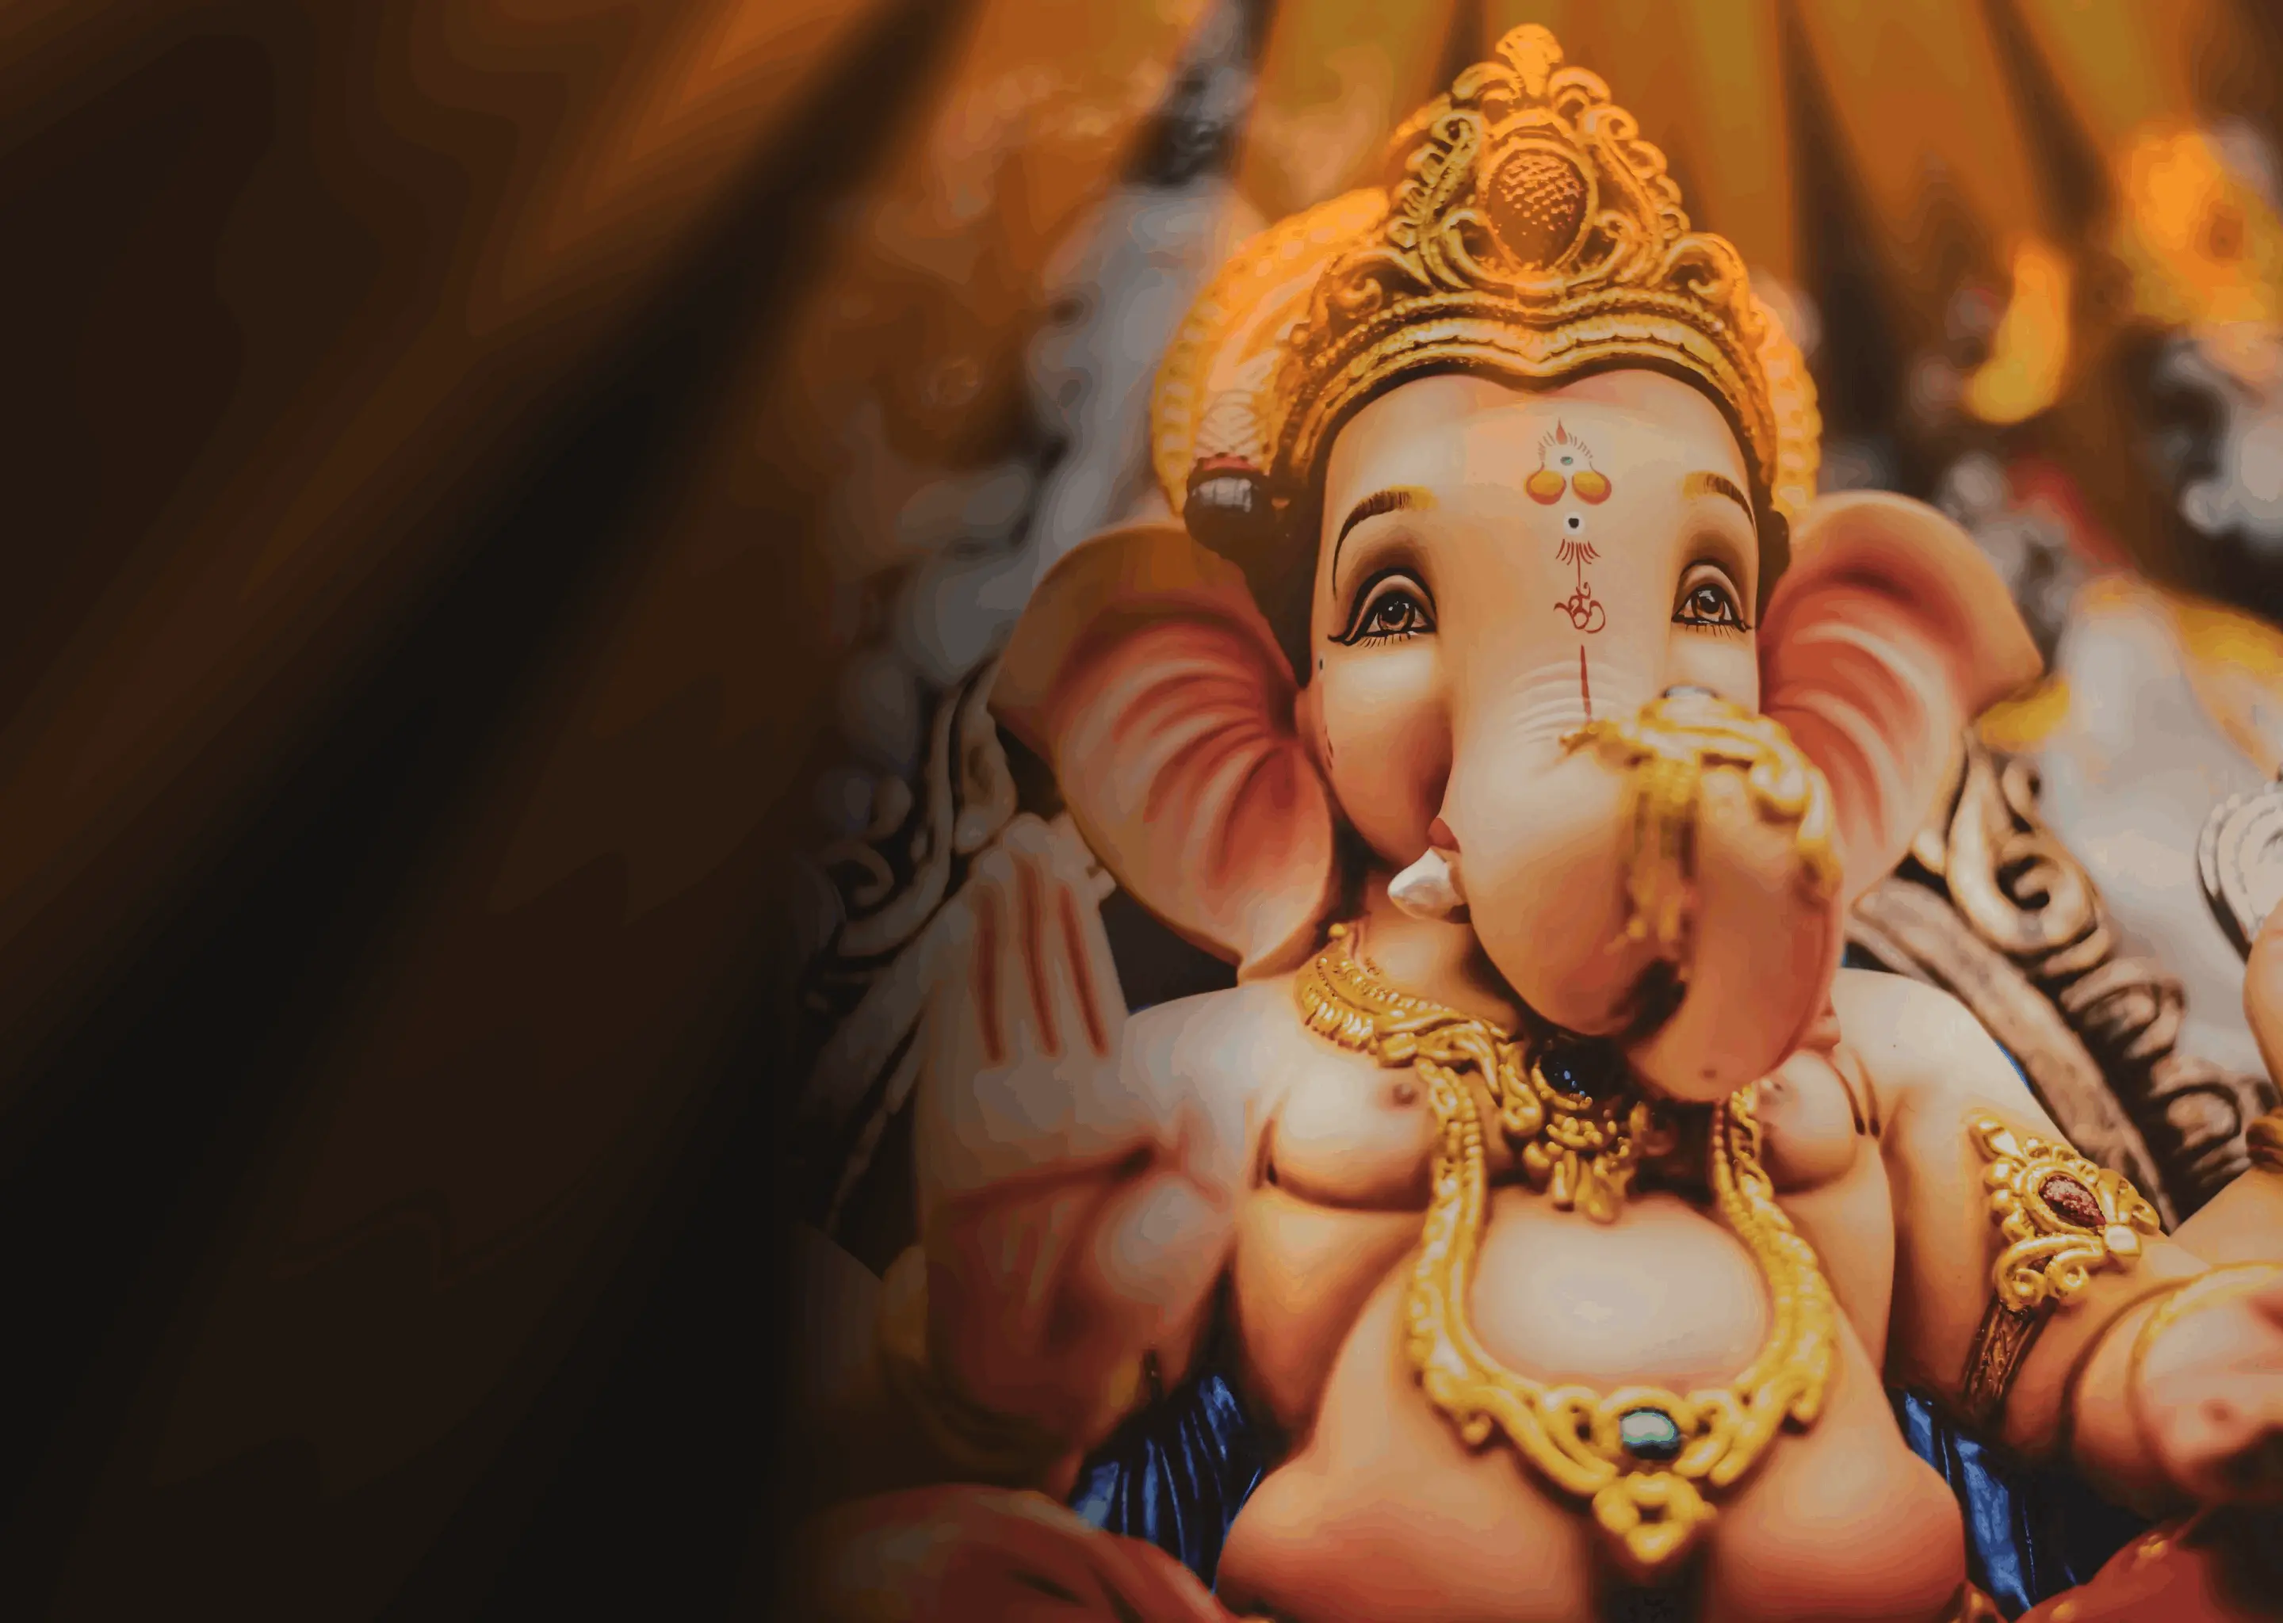
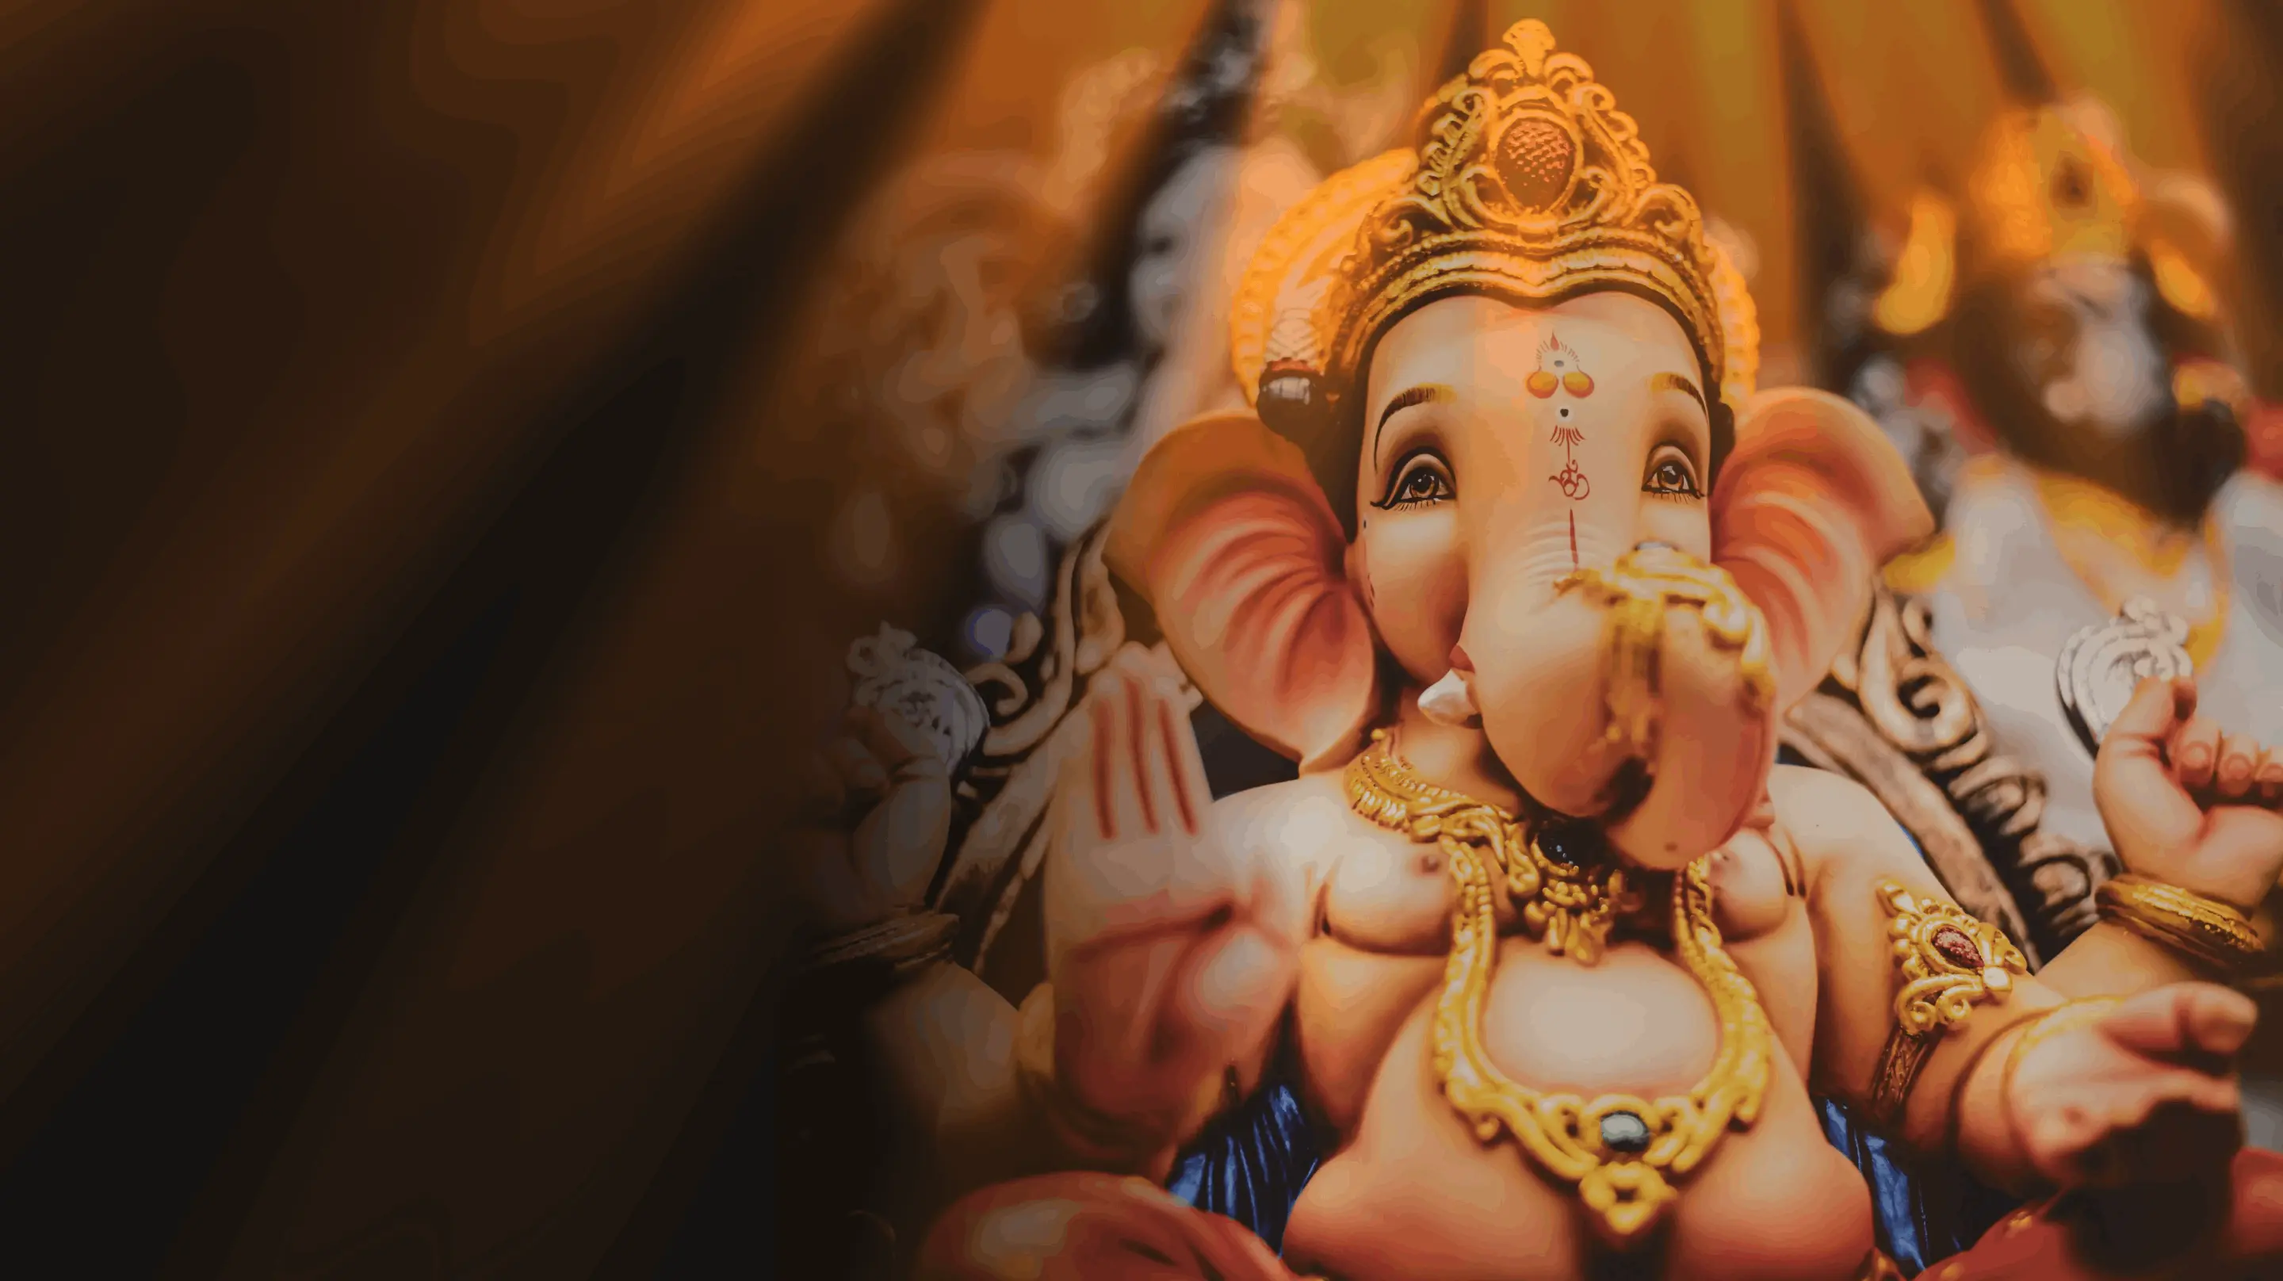
Events CTA Footer

diff --git a/src/components/Footer.jsx b/src/components/Footer.jsx
@@ -1,0 +1,85 @@
+const Footer = () => {
+  return (
+    <div className="bg-white pt-4 sm:pt-10 lg:pt-12">
+      <footer className="mx-auto max-w-screen-2xl px-4 md:px-8">
+        <div className="flex flex-col items-center border-t pt-6">
+          <nav className="mb-4 flex flex-wrap justify-center gap-x-4 gap-y-2 md:justify-start md:gap-6">
+            <a
+              href="#"
+              className="text-gray-500 transition duration-100 hover:text-indigo-500 active:text-indigo-600"
+            >
+              About
+            </a>
+            <a
+              href="#"
+              className="text-gray-500 transition duration-100 hover:text-indigo-500 active:text-indigo-600"
+            >
+              Vision
+            </a>
+            <a
+              href="#"
+              className="text-gray-500 transition duration-100 hover:text-indigo-500 active:text-indigo-600"
+            >
+              Upcoming Events
+            </a>
+            <a
+              href="#"
+              className="text-gray-500 transition duration-100 hover:text-indigo-500 active:text-indigo-600"
+            >
+              Gallery
+            </a>
+            <a
+              href="#"
+              className="text-gray-500 transition duration-100 hover:text-indigo-500 active:text-indigo-600"
+            >
+              Contact
+            </a>
+          </nav>
+
+          <div className="flex gap-4">
+            {/* Instagram */}
+            <a
+              href="#"
+              target="_blank"
+              className="text-gray-400 transition duration-100 hover:text-gray-500 active:text-gray-600"
+            >
+              <svg
+                className="h-5 w-5"
+                width="24"
+                height="24"
+                viewBox="0 0 24 24"
+                fill="currentColor"
+                xmlns="http://www.w3.org/2000/svg"
+              >
+                <path d="M12 2.163c3.204 0 3.584.012 4.85.07 3.252.148 4.771 1.691 4.919 4.919.058 1.265.069 1.645.069 4.849 0 3.205-.012 3.584-.069 4.849-.149 3.225-1.664 4.771-4.919 4.919-1.266.058-1.644.07-4.85.07-3.204 0-3.584-.012-4.849-.07-3.26-.149-4.771-1.699-4.919-4.92-.058-1.265-.07-1.644-.07-4.849 0-3.204.013-3.583.07-4.849.149-3.227 1.664-4.771 4.919-4.919 1.266-.057 1.645-.069 4.849-.069zm0-2.163c-3.259 0-3.667.014-4.947.072-4.358.2-6.78 2.618-6.98 6.98-.059 1.281-.073 1.689-.073 4.948 0 3.259.014 3.668.072 4.948.2 4.358 2.618 6.78 6.98 6.98 1.281.058 1.689.072 4.948.072 3.259 0 3.668-.014 4.948-.072 4.354-.2 6.782-2.618 6.979-6.98.059-1.28.073-1.689.073-4.948 0-3.259-.014-3.667-.072-4.947-.196-4.354-2.617-6.78-6.979-6.98-1.281-.059-1.69-.073-4.949-.073zm0 5.838c-3.403 0-6.162 2.759-6.162 6.162s2.759 6.163 6.162 6.163 6.162-2.759 6.162-6.163c0-3.403-2.759-6.162-6.162-6.162zm0 10.162c-2.209 0-4-1.79-4-4 0-2.209 1.791-4 4-4s4 1.791 4 4c0 2.21-1.791 4-4 4zm6.406-11.845c-.796 0-1.441.645-1.441 1.44s.645 1.44 1.441 1.44c.795 0 1.439-.645 1.439-1.44s-.644-1.44-1.439-1.44z" />
+              </svg>
+            </a>
+
+            <a
+              href="#"
+              target="_blank"
+              className="text-gray-400 transition duration-100 hover:text-gray-500 active:text-gray-600"
+            >
+              <svg
+                className="h-5 w-5"
+                width="24"
+                height="24"
+                viewBox="0 0 24 24"
+                fill="currentColor"
+                xmlns="http://www.w3.org/2000/svg"
+              >
+                <path d="M24 4.557c-.883.392-1.832.656-2.828.775 1.017-.609 1.798-1.574 2.165-2.724-.951.564-2.005.974-3.127 1.195-.897-.957-2.178-1.555-3.594-1.555-3.179 0-5.515 2.966-4.797 6.045-4.091-.205-7.719-2.165-10.148-5.144-1.29 2.213-.669 5.108 1.523 6.574-.806-.026-1.566-.247-2.229-.616-.054 2.281 1.581 4.415 3.949 4.89-.693.188-1.452.232-2.224.084.626 1.956 2.444 3.379 4.6 3.419-2.07 1.623-4.678 2.348-7.29 2.04 2.179 1.397 4.768 2.212 7.548 2.212 9.142 0 14.307-7.721 13.995-14.646.962-.695 1.797-1.562 2.457-2.549z" />
+              </svg>
+            </a>
+          </div>
+        </div>
+
+        <div className="py-8 text-center text-sm text-gray-400">
+          © 2024 - Om Ganeshay Committee. All rights reserved.
+        </div>
+      </footer>
+    </div>
+  );
+};
+
+export default Footer;

diff --git a/src/components/Events.jsx b/src/components/Events.jsx
@@ -1,0 +1,92 @@
+import mahotsav from "../assets/mahotsav.jpeg";
+import visarjan from "../assets/visarjan.jpg";
+
+const Events = () => {
+  return (
+    <div id="upcoming-events" className="bg-white py-6 sm:py-8 lg:py-12">
+      <div className="mx-auto max-w-screen-2xl px-4 md:px-8">
+        <div className="mb-10 md:mb-16">
+          <h2 className="mb-4 text-center text-2xl font-bold text-gray-800 md:mb-6 lg:text-3xl">
+            Upcoming Events
+          </h2>
+
+          <p className="mx-auto max-w-screen-md text-center text-gray-500 md:text-lg">
+            Our celebrations are a time of joy, devotion, and unity. Here’s a
+            glimpse of what’s coming up
+          </p>
+        </div>
+
+        <div className="grid gap-4 sm:grid-cols-2 md:gap-6 lg:grid-cols-3 xl:gap-8">
+          <a
+            href="#"
+            className="group relative flex h-48 flex-col overflow-hidden rounded-lg bg-gray-100 shadow-lg md:h-64 xl:h-96"
+          >
+            <img
+              src={mahotsav}
+              loading="lazy"
+              alt="Photo by Lorenzo Herrera"
+              className="absolute inset-0 h-full w-full object-cover object-center transition duration-200 group-hover:scale-110"
+            />
+
+            <div className="pointer-events-none absolute inset-0 bg-gradient-to-t from-zinc-800 to-transparent md:via-transparent"></div>
+
+            <div className="relative mt-auto p-4">
+              <span className="block text-sm text-gray-200">
+                6 - 13 September
+              </span>
+              <h2 className="mb-2 text-xl font-semibold text-white transition duration-100">
+                Ganesh Chaturthi Mahotsav
+              </h2>
+            </div>
+          </a>
+
+          <a
+            href="#"
+            className="group relative flex h-48 flex-col overflow-hidden rounded-lg bg-gray-100 shadow-lg md:h-64 xl:h-96"
+          >
+            <img
+              src={mahotsav}
+              loading="lazy"
+              alt="Photo by Magicle"
+              className="absolute inset-0 h-full w-full object-cover object-center transition duration-200 group-hover:scale-110"
+            />
+
+            <div className="pointer-events-none absolute inset-0 bg-gradient-to-t from-zinc-800 to-transparent md:via-transparent"></div>
+
+            <div className="relative mt-auto p-4">
+              <span className="block text-sm text-gray-200">
+                10 - 12 September
+              </span>
+              <h2 className="mb-2 text-xl font-semibold text-white transition duration-100">
+                Cultural Nights
+              </h2>
+            </div>
+          </a>
+
+          <a
+            href="#"
+            className="group relative flex h-48 flex-col overflow-hidden rounded-lg bg-gray-100 shadow-lg md:h-64 xl:h-96"
+          >
+            <img
+              src={visarjan}
+              loading="lazy"
+              alt="Photo by Martin Sanchez"
+              className="absolute inset-0 h-full w-full object-cover object-center transition duration-200 group-hover:scale-110"
+            />
+
+            <div className="pointer-events-none absolute inset-0 bg-gradient-to-t from-zinc-800 to-transparent md:via-transparent"></div>
+
+            <div className="relative mt-auto p-4">
+              <span className="block text-sm text-gray-200">14 September</span>
+              <h2 className="mb-2 text-xl font-semibold text-white transition duration-100">
+                Visarjan Procession
+              </h2>
+            </div>
+          </a>
+        </div>
+      </div>
+    </div>
+  );
+};
+
+export default Events;

diff --git a/src/components/CTA.jsx b/src/components/CTA.jsx
@@ -1,0 +1,50 @@
+import cta from "../assets/cta.jpg";
+
+const CTA = () => {
+  return (
+    <div className="bg-white py-6 sm:py-8 lg:py-12">
+      <div className="mx-auto max-w-screen-2xl px-4 md:px-8">
+        <div className="flex flex-col overflow-hidden rounded-lg bg-gray-900 sm:flex-row md:h-80">
+          <div className="flex w-full flex-col p-4 sm:w-1/2 sm:p-8 lg:w-2/5">
+            <h2 className="mb-4 text-xl font-bold text-white md:text-2xl lg:text-4xl">
+              Your involvement makes our celebrations possible.
+            </h2>
+
+            <p className="mb-8 max-w-md text-gray-400">
+              Whether you wish to volunteer your time or contribute financially,
+              every bit of support helps us create a more enriching experience
+              for all devotees.
+            </p>
+
+            <div className="mt-auto space-y-4 md:space-y-0 md:space-x-4">
+              <a
+                href="#"
+                className="inline-block w-full md:w-auto rounded-lg bg-orange-500 px-8 py-3 text-center text-sm font-semibold text-white outline-none ring-indigo-300 transition duration-100 hover:bg-orange-600 focus-visible:ring active:bg-orange-700 md:text-base"
+              >
+                Volunteer
+              </a>
+
+              <a
+                href="#"
+                className="inline-block w-full md:w-auto rounded-lg bg-orange-500 px-8 py-3 text-center text-sm font-semibold text-white outline-none ring-indigo-300 transition duration-100 hover:bg-orange-600 focus-visible:ring active:bg-orange-700 md:text-base"
+              >
+                Donate
+              </a>
+            </div>
+          </div>
+
+          <div className="order-first h-48 w-full bg-gray-700 sm:order-none sm:h-auto sm:w-1/2 lg:w-3/5">
+            <img
+              src={cta}
+              loading="lazy"
+              alt="Photo by Dom Hill"
+              className="h-full w-full object-cover object-bottom"
+            />
+          </div>
+        </div>
+      </div>
+    </div>
+  );
+};
+
+export default CTA;

diff --git a/src/components/Hero.jsx b/src/components/Hero.jsx
@@ -1,10 +1,10 @@
 // Images
 // import HeroGanesh from "../assets/hero.webp";
-import logo from "../assets/logoWhite.svg";
+// import logo from "../assets/logoWhite.svg";
 
 const Hero = () => {
   return (
-    <div className="bg-herobgMob lg:bg-herobg bg-cover bg-top md:bg-center pb-6 sm:pb-8 lg:pb-12 h-screen">
+    <div className="bg-herobgMob lg:bg-herobg bg-cover bg-no-repeat bg-top md:bg-top pb-6 sm:pb-8 lg:pb-12 h-dvh">
       {" "}
       <div className="mx-auto h-full max-w-screen-2xl px-4 md:px-8 flex items-end md:items-center">
         {/* Hero Starts Here */}
@@ -44,7 +44,7 @@ const Hero = () => {
               >
                 Download PDF
               </a>
-              <a href="#" className="text-white hover:underline">
+              <a href="#upcoming-events" className="text-white hover:underline">
                 Upcoming Events →
               </a>
             </div>

diff --git a/tailwind.config.js b/tailwind.config.js
@@ -3,14 +3,7 @@ export default {
   content: ["./index.html", "./src/**/*.{js,ts,jsx,tsx}"],
   theme: {
     extend: {
-      colors: {
-        primary: "#19B4B1",
-        secondary: "#5AB87E",
-        dark: "#131313",
-        light: "#ffffff",
-        extraOne: "#7D26C7",
-        extraTwo: "#FC0182",
-      },
+      colors: {},
       fontFamily: {
         metro: ["metropolis", "sans-serif"],
       },

diff --git a/src/App.jsx b/src/App.jsx
@@ -1,5 +1,8 @@
 // Components
 import About from "./components/About";
+import CTA from "./components/CTA";
+import Events from "./components/Events";
+import Footer from "./components/Footer";
 import Hero from "./components/Hero";
 
 function App() {
@@ -7,6 +10,9 @@ function App() {
     <section>
       <Hero />
       <About />
+      <Events />
+      <CTA />
+      <Footer />
     </section>
   );
 }

diff --git a/src/index.css b/src/index.css
@@ -5,10 +5,8 @@
 /* ============= CSS RESET ============= */
 
 :root {
-  --primary: #19b4b1;
-  --secondary: #5ab87e;
+  --primary: #f97316;
   --dark: #131313;
-  --light: #ffffff;
 }
 
 * {
@@ -44,6 +42,10 @@ html {
 }
 
 ::selection {
-  color: var(--secondary);
+  color: var(--primary);
   background-color: var(--dark);
+}
+
+html {
+  scroll-behavior: smooth;
 }
